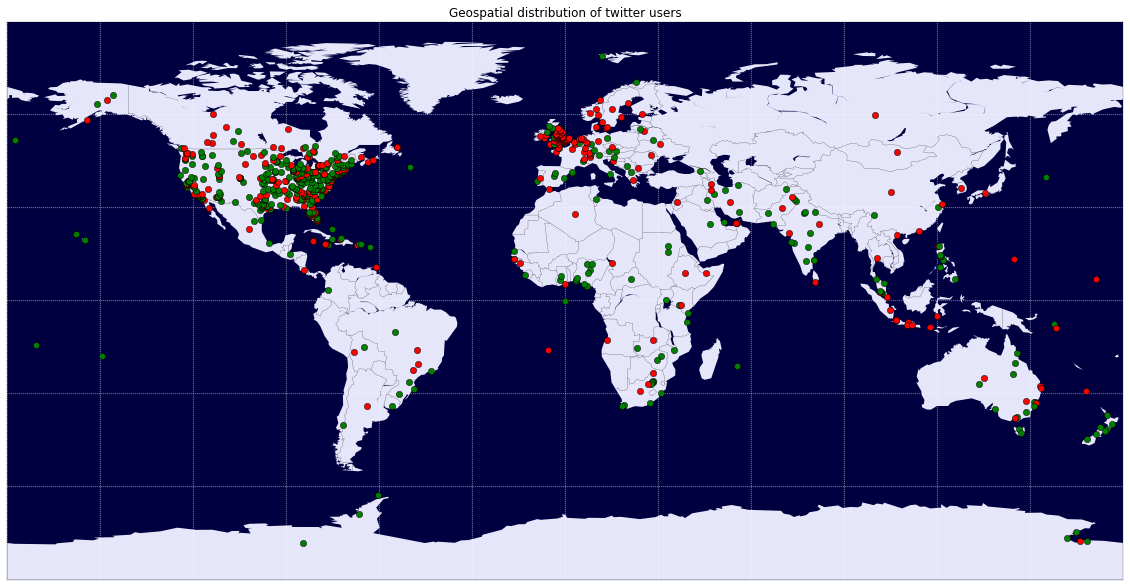
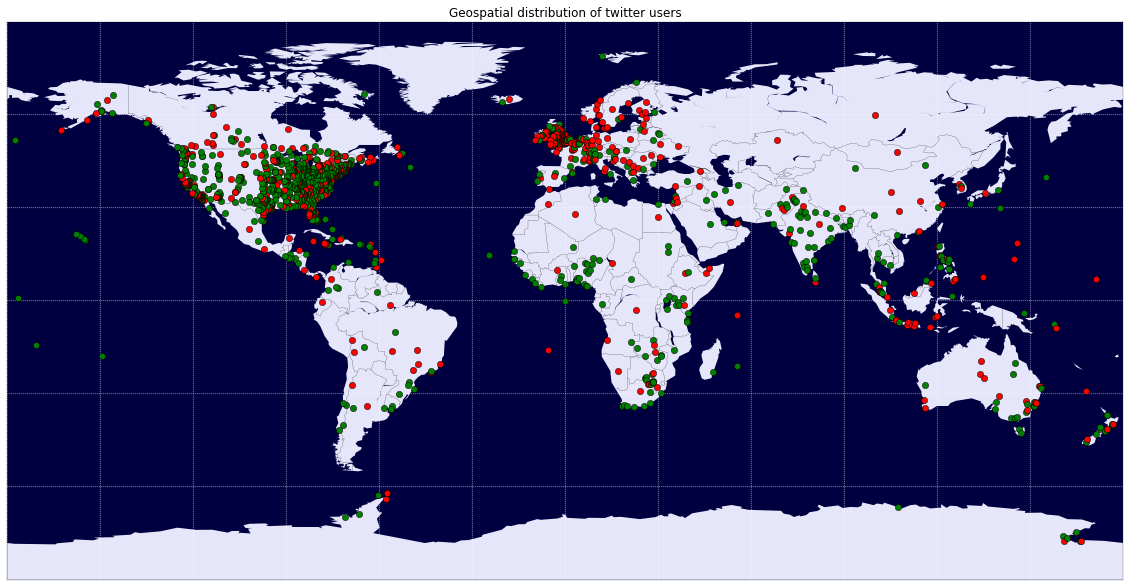
geonames fixed

diff --git a/homework-1.py b/homework-1.py
@@ -40,7 +40,7 @@ get_ipython().magic(u'pylab inline')
 
 # In[2]:
 
-TRAINING_SET_URL = "https://kaggle2.blob.core.windows.net/competitions-data/inclass/4277/twitter_train.txt?sv=2012-02-12&se=2015-03-04T15%3A54%3A20Z&sr=b&sp=r&sig=RKsea6k%2F%2BgauZoZdAtahEsj%2FAJDBKZbttSu7xQdpvA8%3D" # insert file path here
+TRAINING_SET_URL = "https://kaggle2.blob.core.windows.net/competitions-data/inclass/4277/twitter_train.txt?sv=2012-02-12&se=2015-03-09T20%3A05%3A02Z&sr=b&sp=r&sig=AnCg73oGzxRz3oIGaerj95UyCubi0yiZLbtd1LDFJKc%3D"
 df_users = pd.read_csv(TRAINING_SET_URL, sep=",", header=0, names=["user_id", "class"])
 df_users.head()
 
@@ -77,13 +77,6 @@ CONSUMER_SECRET = "zqup2Sk9Sb5DWm7q8swBgXaVeW1TncacBb0hfPbywyNDmknAcH"
 
 ACCESS_TOKEN_KEY = "103516608-CJ63nEox8ItY9DgDhYU2TBFeLnsZvYUUxslB1d3e"
 ACCESS_TOKEN_SECRET = "65XCfoYcZFUbYRPyNfV5Tso2f8Kv1yi2LYF3QV2xcloFP"
-
-"""
-api = twitter.Api(consumer_key=CONSUMER_KEY, 
-                  consumer_secret=CONSUMER_SECRET, 
-                  access_token_key=ACCESS_TOKEN_KEY, 
-                  access_token_secret=ACCESS_TOKEN_SECRET)
-"""
 
 
 # Twitter API предоставляет информацию о местонахождении пользователя, но эта информация представлена в текстовом виде, например так:
@@ -145,25 +138,32 @@ api = twitter.Api(consumer_key=CONSUMER_KEY,
 # In[5]:
 
 # Input your user name
-GEO_USER_NAME = "marinae"
+GEO_USER_NAMES = ["marinae3", "marinae4", "marinae5", "marinae6", "marinae", "marinae2"]
 
 def get_coordinates_by_location(location):
-    # get data from GeoNames
-    url = "http://api.geonames.org/searchJSON?q=" + location + "&maxRows=1&username=" + GEO_USER_NAME
-    r = requests.get(url)
-    data = json.loads(r.text)
     
-    # check result
-    if 'totalResultsCount' in data:
-        if data['totalResultsCount'] > 0:
-            # city exists
-            i = data['geonames'][0]
-            # return its coordinates and country
-            return (i['lat'], i['lng'], i['name'])
-        else:
-            return (0, 0, u'')
-    else:
-        return (0, 0, u'')
+    # replace character '#'
+    location = location.replace(u'#', '')
+    
+    # try to get info by multiple accounts
+    for username in GEO_USER_NAMES:
+        
+        # get data from GeoNames.org
+        url = "http://api.geonames.org/searchJSON?q=" + location + "&maxRows=1&username=" + username
+        r = requests.get(url)
+        data = json.loads(r.text)
+
+        # check result
+        if 'totalResultsCount' in data:
+            if data['totalResultsCount'] > 0:
+                # city exists
+                i = data['geonames'][0]
+                # return its coordinates and country
+                return (i['lng'], i['lat'], i['countryName'])
+            else:
+                return (0, 0, u'')
+            
+    return (0, 0, u'')
 
 
 # Следующий шаг -- вызов Twitter API для сбора данных и сохранения их в data frame. После чего data frame c собранными данными совмещается с data frame, содержащим данные исходной обучающей выборки. 
@@ -193,7 +193,7 @@ def twitter_user_to_dataframe_record(user):
         
     if user['location'] is not None and user['location'].strip() != "":
         record["location"] = user['location']
-        record["lat"], record["lon"], record["country"] = get_coordinates_by_location(user['location'])
+        record["lon"], record["lat"], record["country"] = get_coordinates_by_location(user['location'])
     
     return record
 
@@ -207,6 +207,9 @@ def get_user_records(df):
     auth = OAuth1(CONSUMER_KEY, CONSUMER_SECRET, ACCESS_TOKEN_KEY, ACCESS_TOKEN_SECRET)
     
     while lower < count:
+        # print current state
+        print "users " + str(lower) + " to " + str(upper) + "..."
+        
         # next 100 users
         part_records = df['user_id'][lower:upper]
         
@@ -242,9 +245,17 @@ print "Finished building data frame"
 
 ### Exploratory Data Analysis
 
+# In[8]:
+
+OUT_FILE_PATH = "files/geonames_out.csv"
+print "Saving output data frame to %s" % OUT_FILE_PATH
+df_full.to_csv(OUT_FILE_PATH, sep=";", index=False, encoding="utf-8", quoting=csv.QUOTE_NONNUMERIC)
+df_full.head()
+
+
 # Для того, чтобы лучше понять, как устроена наша обучающая выборка, построим несколько графиков. Сначала построим долю "положительных" пользователей в зависимости от дня создания аккаунта. По горизонтальной оси отложим день создания аккаунта, а по вертикальной -- долю "положительных" пользователей ([подсказка](http://anokhin.github.io/img/hw1_distr.png)). Необходимо дописать код функции count_users. В функции необходимо посчитать пользователей в каждой группе (2 балла).
 
-# In[27]:
+# In[9]:
 
 def count_users(grouped):
     """
@@ -297,7 +308,7 @@ pl.show()
 
 # Видно, что доля "положительных" аккаунтов в выборке растет с увеличением времени. Посмотрим, где живут пользователи положительной и отрицательной категории. Для этого отметим на карте каждого положительного пользователя красным, а отрицательного -- зеленым цветом ([подсказка](http://anokhin.github.io/img/hw1_map.png)). Необходимо реализовать функцию plot_points_on_map. В функции необходимо отобразить на карте пользователей из разных классов (3 балла).
 
-# In[113]:
+# In[11]:
 
 pl.figure(figsize=(20,12))
 
@@ -315,7 +326,7 @@ def plot_points_on_map(df_full):
     """
     
     # leave only necessary data
-    cutted = pd.DataFrame(df_full, columns=['class', 'lat', 'lon'])
+    cutted = pd.DataFrame(df_full, columns=['class', 'lon', 'lat'])
     
     # check if longitude (latitude as well) is not a number
     filtered = cutted[cutted.lon == cutted.lon]
@@ -324,17 +335,17 @@ def plot_points_on_map(df_full):
     filtered_nn = filtered[(filtered.lon != 0) & (filtered.lat != 0)]
     
     # group filtered dataset by coordinates
-    grouped = filtered_nn.groupby([filtered_nn['lat'], filtered_nn['lon']])
+    grouped = filtered_nn.groupby([filtered_nn['lon'], filtered_nn['lat']])
     
-    for i in grouped['lat', 'lon']:
+    for i in grouped['lon', 'lat']:
         # count positive users from this area
         positive = len(np.nonzero(i[1]['class'])[0])
         
         # count negative users from this area
         negative = len(i[1]['class']) - positive
         
-        lat = i[0][0]
-        lon = i[0][1]
+        lon = i[0][0]
+        lat = i[0][1]
         
         # draw circle
         if positive > negative:
@@ -358,7 +369,7 @@ pl.show()
 
 OUT_FILE_PATH = "files/hw1_out.csv"
 print "Saving output data frame to %s" % OUT_FILE_PATH
-df_full.to_csv(OUT_FILE_PATH, sep="\t", index=False, encoding="utf-8", quoting=csv.QUOTE_NONNUMERIC)
+df_full.to_csv(OUT_FILE_PATH, sep=";", index=False, encoding="utf-8", quoting=csv.QUOTE_NONNUMERIC)
 df_full.head()
 
 
